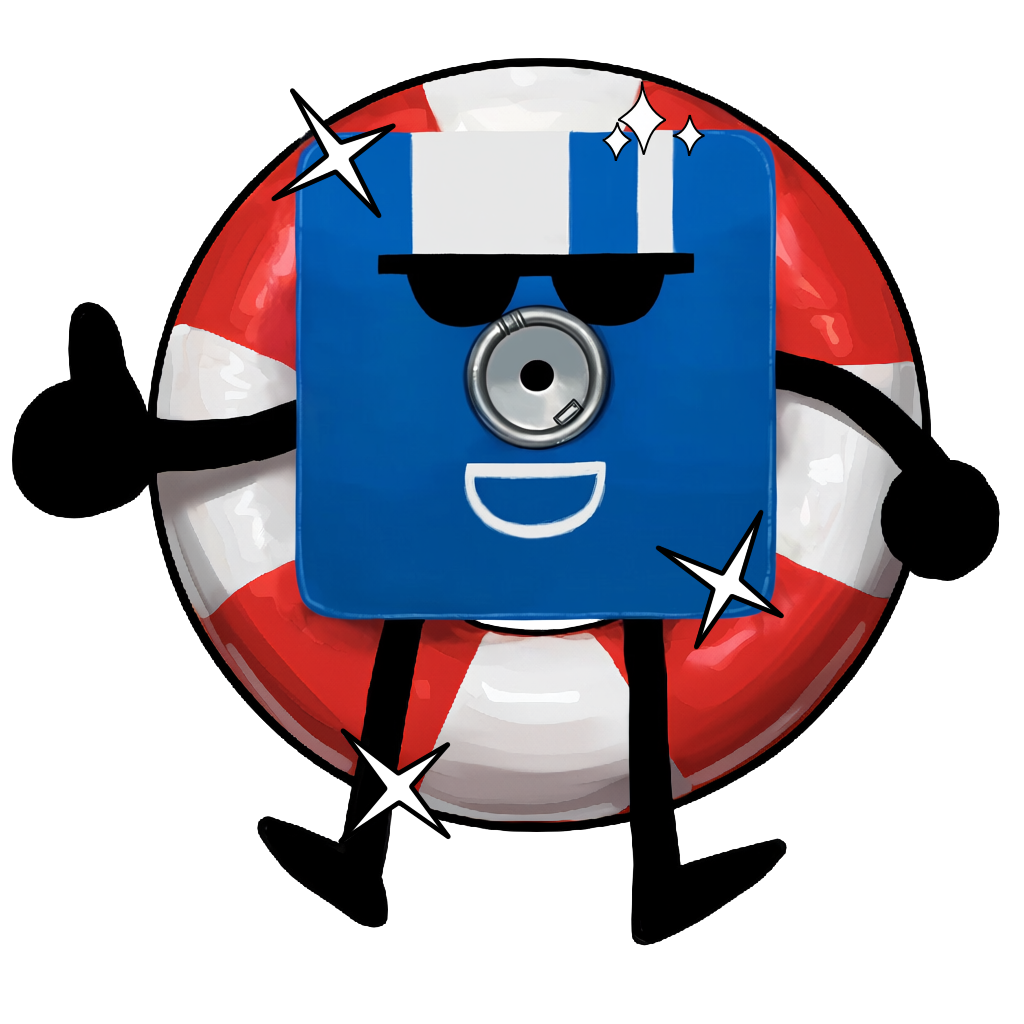
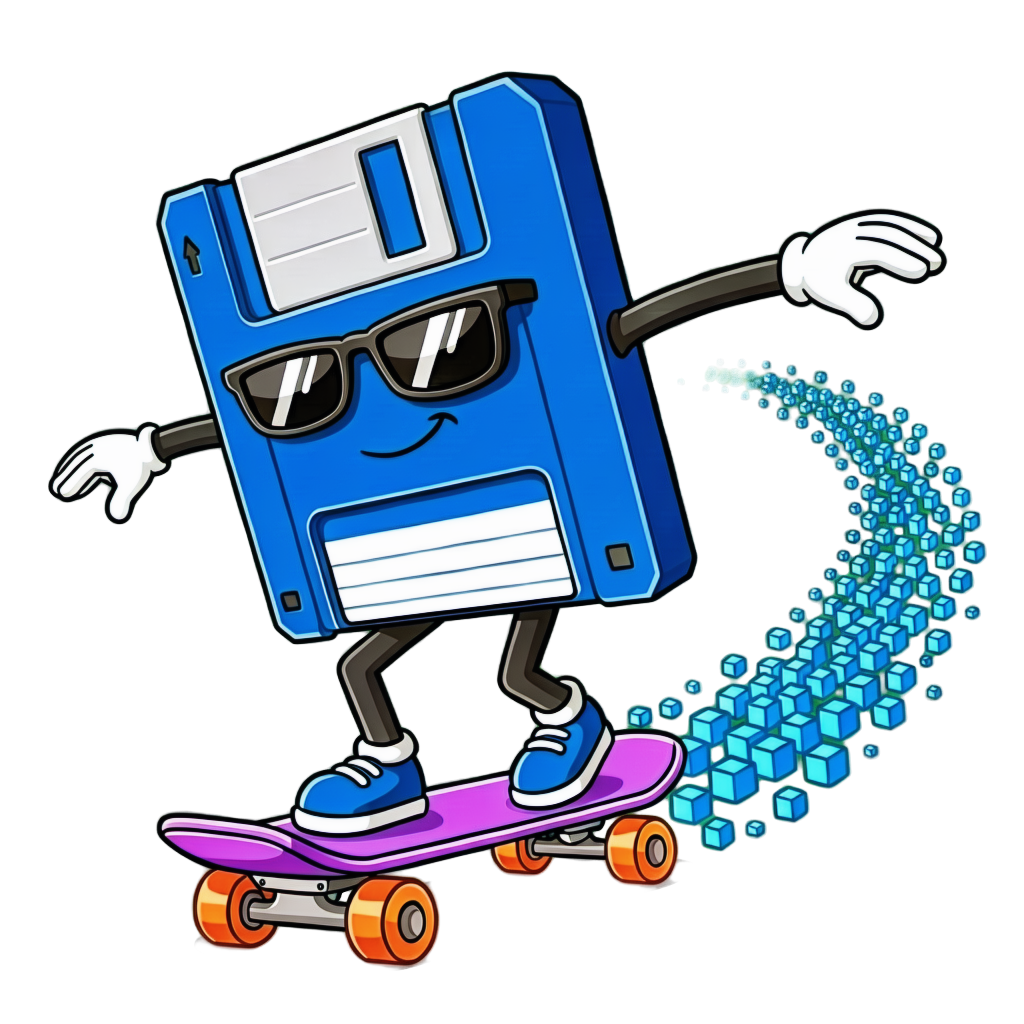
Added some images for the different pre launcher activities. Added a first time downlaod and install script.

diff --git a/pre-launcher/pre-launcher.c b/pre-launcher/pre-launcher.c
@@ -55,6 +55,7 @@
 #pragma GCC diagnostic pop
 
 #include "icon_data.h"
+#include "bg_data.h"
 
 /* ── Diagnostic log ────────────────────────────────────────────────────────── */
 
@@ -255,6 +256,12 @@ static SDL_Renderer *g_ren  = NULL;
 static SDL_Texture  *g_icon = NULL;
 static int           g_icon_w = 0, g_icon_h = 0;
 
+static SDL_Texture  *g_bg_pulling      = NULL;
+static SDL_Texture  *g_bg_pushing      = NULL;
+static SDL_Texture  *g_bg_done         = NULL;
+static SDL_Texture  *g_bg_conflict     = NULL;
+static SDL_Texture  *g_bg_disconnected = NULL;
+
 /* ── Fonts ─────────────────────────────────────────────────────────────────── */
 
 static TTF_Font *g_fnt_heading = NULL; /* 26pt bold  */
@@ -357,6 +364,45 @@ static void icon_free(void)
     if (g_icon) { SDL_DestroyTexture(g_icon); g_icon = NULL; }
 }
 
+/* ── Background images ─────────────────────────────────────────────────────── */
+
+static SDL_Texture *bg_load_one(const unsigned char *data, unsigned int len)
+{
+    if (!len) return NULL;
+    int w, h, ch;
+    unsigned char *px = stbi_load_from_memory(data, (int)len, &w, &h, &ch, 4);
+    if (!px) return NULL;
+    SDL_Surface *surf = SDL_CreateRGBSurfaceWithFormatFrom(px, w, h, 32, w*4,
+                                                           SDL_PIXELFORMAT_RGBA32);
+    if (!surf) { stbi_image_free(px); return NULL; }
+    SDL_Texture *t = SDL_CreateTextureFromSurface(g_ren, surf);
+    if (t) SDL_SetTextureBlendMode(t, SDL_BLENDMODE_NONE);
+    SDL_FreeSurface(surf);
+    stbi_image_free(px);
+    return t;
+}
+
+static void bg_load(void)
+{
+    g_bg_pulling      = bg_load_one(bg_pulling_png,      bg_pulling_png_len);
+    g_bg_pushing      = bg_load_one(bg_pushing_png,      bg_pushing_png_len);
+    g_bg_done         = bg_load_one(bg_done_png,         bg_done_png_len);
+    g_bg_conflict     = bg_load_one(bg_conflict_png,     bg_conflict_png_len);
+    g_bg_disconnected = bg_load_one(bg_disconnected_png, bg_disconnected_png_len);
+    diag("bg loaded: pulling=%p pushing=%p done=%p conflict=%p disconnected=%p",
+         (void*)g_bg_pulling, (void*)g_bg_pushing, (void*)g_bg_done,
+         (void*)g_bg_conflict, (void*)g_bg_disconnected);
+}
+
+static void bg_free(void)
+{
+    if (g_bg_pulling)      { SDL_DestroyTexture(g_bg_pulling);      g_bg_pulling      = NULL; }
+    if (g_bg_pushing)      { SDL_DestroyTexture(g_bg_pushing);      g_bg_pushing      = NULL; }
+    if (g_bg_done)         { SDL_DestroyTexture(g_bg_done);         g_bg_done         = NULL; }
+    if (g_bg_conflict)     { SDL_DestroyTexture(g_bg_conflict);     g_bg_conflict     = NULL; }
+    if (g_bg_disconnected) { SDL_DestroyTexture(g_bg_disconnected); g_bg_disconnected = NULL; }
+}
+
 /* ── Drawing helpers ───────────────────────────────────────────────────────── */
 
 static void set_color(SDL_Color c)
@@ -423,6 +469,20 @@ typedef enum {
 } Phase;
 
 static Phase g_phase;
+
+static SDL_Texture *bg_for_phase(void)
+{
+    switch (g_phase) {
+    case PH_SYNCING_PRE:
+    case PH_SYNCING_RESOLVE: return g_bg_pulling;
+    case PH_PUSHING:         return g_bg_pushing;
+    case PH_SYNCED_OK:
+    case PH_PUSHED:          return g_bg_done;
+    case PH_CONFLICT:        return g_bg_conflict;
+    case PH_NO_CONNECTION:   return g_bg_disconnected;
+    }
+    return NULL;
+}
 
 /* Button: label, fill color, result value, screen rect */
 typedef struct { char label[80]; SDL_Color color; int result; SDL_Rect r; } Btn;
@@ -584,6 +644,19 @@ static void render(void)
     /* Background */
     set_color(C_BG);
     SDL_RenderClear(g_ren);
+
+    /* Background image — cover-fit to fill window */
+    {
+        SDL_Texture *bg = bg_for_phase();
+        if (bg) {
+            int iw, ih; SDL_QueryTexture(bg, NULL, NULL, &iw, &ih);
+            float sx = (float)g_sw / iw, sy = (float)g_sh / ih;
+            float sc = sx > sy ? sx : sy;
+            int dw = (int)(iw * sc), dh = (int)(ih * sc);
+            SDL_Rect dst = { (g_sw - dw)/2, (g_sh - dh)/2, dw, dh };
+            SDL_RenderCopy(g_ren, bg, NULL, &dst);
+        }
+    }
 
     /* Panel */
     g_pw = g_windowed ? g_sw : g_sw * 7 / 10;
@@ -850,6 +923,7 @@ static int window_open(void)
 
 static void window_close(void)
 {
+    bg_free();
     icon_free();
     if (g_ren) { SDL_DestroyRenderer(g_ren); g_ren = NULL; }
     if (g_win) { SDL_DestroyWindow(g_win);   g_win = NULL; }
@@ -893,6 +967,7 @@ static int run_pre_game(const EgsStatus *s0)
     if (!window_open()) return 0;
     if (!fonts_load()) diag("warning: fonts not loaded — text will not render");
     icon_load();
+    bg_load();
     run_loop();
     return (g_done == 1) ? 1 : 0;
 }
@@ -909,6 +984,7 @@ static void run_post_game(void)
     if (!window_open()) return;
     if (!fonts_load()) diag("warning: fonts not loaded");
     icon_load();
+    bg_load();
     run_loop();
 }
 

diff --git a/README.md b/README.md
@@ -10,6 +10,24 @@ This project was developed with extensive AI assistance under my direction and r
 
 ---
 
+## Quick Install
+
+**Linux / SteamOS / Steam Deck** — paste into a terminal:
+
+```bash
+curl -fsSL https://raw.githubusercontent.com/pmahern/steamexternalgamesync/master/download-install.sh | bash
+```
+
+**Windows** — paste into PowerShell or Command Prompt:
+
+```
+powershell -c "iex (iwr 'https://raw.githubusercontent.com/pmahern/steamexternalgamesync/master/download-install.ps1' -UseBasicParsing).Content"
+```
+
+Both commands download the latest release from GitHub, extract it without touching disk in a way that triggers SmartScreen, and run the installer. Python 3 must already be installed on Windows ([python.org/downloads](https://www.python.org/downloads/) — check "Add Python to PATH").
+
+---
+
 ## What it does
 
 - **Automatic save sync on launch and exit** — before a game starts, the latest saves are pulled from the cloud; after you quit, they're pushed back. You just play; the syncing happens in the background.
@@ -33,14 +51,16 @@ This project was developed with extensive AI assistance under my direction and r
 
 ## Install
 
+For first-time setup, use the [Quick Install](#quick-install) one-liner above. If you prefer to clone the repo manually:
+
 ```bash
 git clone https://github.com/pmahern/externalgamesync
 cd externalgamesync
-chmod 755 install.sh
-bash install.sh
+bash install.sh          # Linux
+# or on Windows: powershell -ExecutionPolicy Bypass -File install.ps1
 ```
 
-No root required. Everything installs to `~/.local/`.
+No root required. Everything installs to `~/.local/` on Linux or `%LOCALAPPDATA%\ExternalGameSync` on Windows.
 
 ---
 